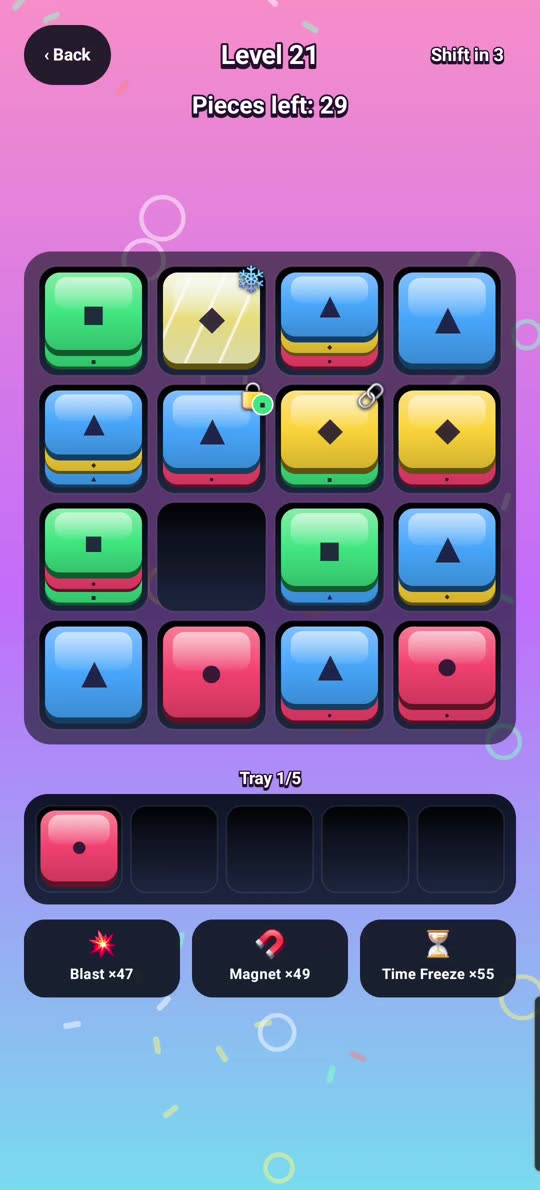
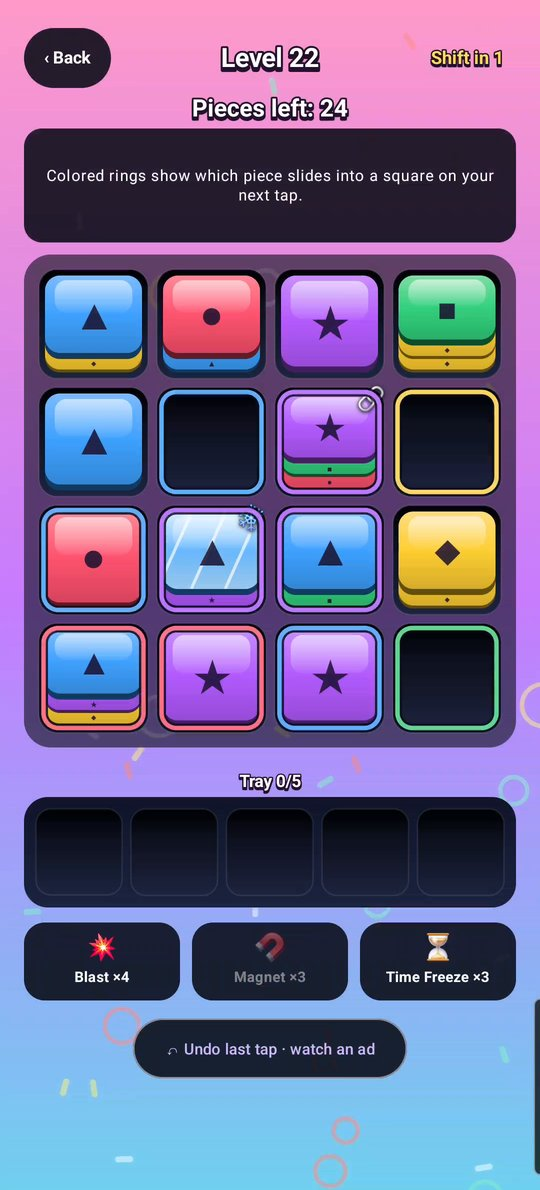
TrayShift landing: new screenshots with the solid colored Shift rings (v0.6.16)
Claude-Session: https://claude.ai/code/session_01DJ9HZqzY5r27YVZvoPSARF

diff --git a/trayshift/index.html b/trayshift/index.html
@@ -129,8 +129,8 @@ section{padding:72px 0}
 <p class="sub">Stacked pieces, a sliding board and a tray that fills up fast, in five themed worlds.</p>
 <div class="shots">
 <img src="/trayshift/img/shot-space.jpg" alt="A Space world level with colored rings showing the next Shift" width="540" height="1190" loading="lazy">
-<img src="/trayshift/img/shot-desert.jpg" alt="A Desert world level with stacked pieces and the booster shelf" width="540" height="1190" loading="lazy">
-<img src="/trayshift/img/shot-candy.jpg" alt="A Candy world level with frozen, locked and linked pieces" width="540" height="1190" loading="lazy">
+<img src="/trayshift/img/shot-desert.jpg" alt="A Desert world level with stacked pieces, colored Shift rings and the booster shelf" width="540" height="1190" loading="lazy">
+<img src="/trayshift/img/shot-candy.jpg" alt="A Candy world level with stacked and frozen pieces and colored rings showing the next Shift" width="540" height="1190" loading="lazy">
 </div>
 </div></section>
 <section><div class="wrap">
